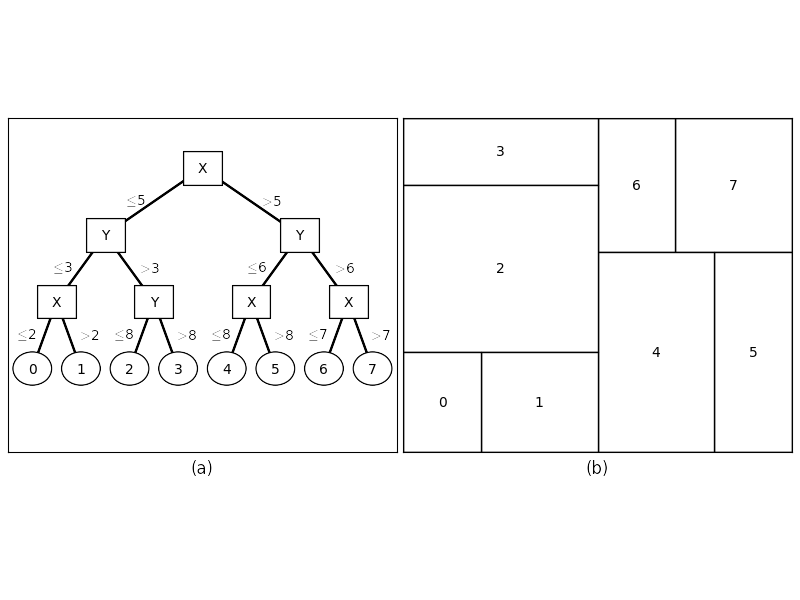
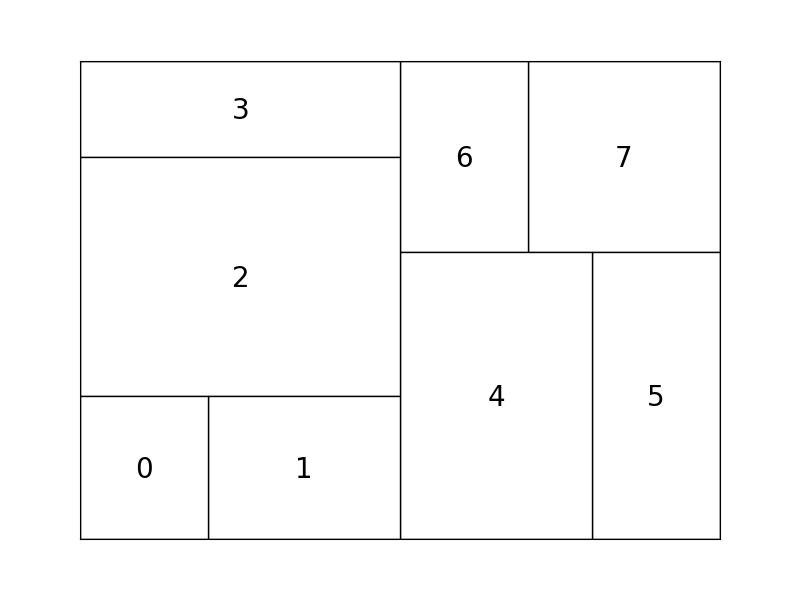
Script now makes individual images of the tree and inuced partitioning

diff --git a/src/examples/DecisionTreePartitions.py b/src/examples/DecisionTreePartitions.py
@@ -13,11 +13,13 @@ import linegraph
 import patchplotting
 
 
-def main(figureSaveLocation):
-    """Create an image that demonstrates the classifcation of data points using the k-NN algorithm.
+def main(treeSaveLocation, partitionSaveLocation):
+    """Create an image that demonstrates the partition induced by a decision tree.
 
-    @type figureSaveLocation - str
-    @use  figureSaveLocation - The location where the figure will be saved.
+    @type treeSaveLocation - str
+    @use  treeSaveLocation - The location where the image of the tree will be saved.
+    @type partitionSaveLocation - str
+    @use  partitionSaveLocation - The location where the image of the partitioning will be saved.
     """
 
     # Define the decision tree split points and partitions.
@@ -27,16 +29,6 @@ def main(figureSaveLocation):
     partitionLabels = [str(i) for i in range(len(splitValues) + 1)]
     splitValues = splitValues + ([None] * (len(splitValues) + 1))  # Pad out the splitValues with empty values for the leaves.
     splitVariables = splitVariables + ([None] * (len(splitValues) + 1))  # Pad out the splitVariables with empty values for the leaves.
-    ###COORDS FOR THE RECTANGLES HERE IDEALLY PROVIDE JUS THTE CENTRE COORD THEN CAN DO THE LINE FROM THERE TO CHILD NODE
-    # Determine if ellipses can be generated from just a central coord and the width and height
-    #       the central cord will be used to put the number of the partition the leaf node gives
-    # determine if rectanlge can be generated from central coord and width and height
-    #       the central coord will be used to put the name of the variable that is being split on
-    # get the central coord of the partitions (d this right after clculating them)
-    #       the central coord wll be used to put the label
-    #       the number of labels is the number of non-nulls in splitValues + 1
-    # get the central coord of the line that will connect the patches
-    #       this will b used to put the condition fo rhte branch (e.g. x <= 2)
 
     # Define the axis size;
     axisMinValue = 0.0
@@ -143,40 +135,35 @@ def main(figureSaveLocation):
                 partitionLabelXValues.append((otherVarLessThan + otherVarMoreThan) / 2.0)
                 partitionLabelYValues.append((currentVarLessThan + valueOfI) / 2.0)
 
-    # Create the figure, the grids for the subplots and determine the spacing for the subplots.
+    # Create the plot for the decision tree.
     currentFigure = plt.figure()
-    gs = gridspec.GridSpec(5, 6)
-    gs.update(left=0.01, right=0.99, bottom=0.05, top=1, wspace=0.05)#, hspace=0.05)
-
-    # Create the subplot for the decision tree.
-    leftScatterPlot = plt.subplot(gs[1:-1, 0:3])
-    leftScatterPlot.set_xlim(left=axisMinValue, right=axisMaxValue)
-    leftScatterPlot.set_ylim(bottom=axisMinValue, top=axisMaxValue)
+    gsTree = gridspec.GridSpec(10, 10)
+    gsTree.update(left=0, right=1, bottom=0, top=1, wspace=0.05)#, hspace=0.05)
+    treePlot = plt.subplot(gsTree[1:-1, 1:-1])
+    treePlot.set_xlim(left=axisMinValue, right=axisMaxValue)
+    treePlot.set_ylim(bottom=axisMinValue, top=axisMaxValue)
     nodes = [patches.Rectangle((nodeCenterXValues[i] - (nodeWidth / 2), nodeCenterYValues[i] - (nodeHeight / 2)), nodeWidth, nodeHeight) if nodeDepths[i] < maxDepth
              else patches.Circle((nodeCenterXValues[i], nodeCenterYValues[i]), nodeWidth / 2)
              for i in range(len(nodeDepths))]
     patchplotting.graphGeneration(nodes, currentFigure=currentFigure, faceColors=['white'] * len(nodes), zorders=[-1])
-    addtext.graphGeneration(nodeCenterXValues, nodeCenterYValues, nodeLabels, currentFigure=currentFigure, zorders=list(range(len(nodeLabels))))
+    addtext.graphGeneration(nodeCenterXValues, nodeCenterYValues, nodeLabels, currentFigure=currentFigure, sizes=[15] * len(nodeLabels), zorders=list(range(len(nodeLabels))))
     linegraph.graphGeneration(treeEdgesXValues, treeEdgesYValues, currentFigure=currentFigure, markerSizes=[0] * len(treeEdgesYValues), zorders=[-len(nodes)])
-    addtext.graphGeneration(edgeCenterXValues, edgeCenterYValues, treeEdgeLabels, currentFigure=currentFigure, zorders=list(range(len(treeEdgeLabels))))
+    addtext.graphGeneration(edgeCenterXValues, edgeCenterYValues, treeEdgeLabels, currentFigure=currentFigure, sizes=[15] * len(treeEdgeLabels), zorders=list(range(len(treeEdgeLabels))))
+    removeTickMarks(treePlot, xAxis=True, yAxis=True)
+    plt.savefig(treeSaveLocation, bbox_inches=0, transparent=True)
 
-    # Create the subplot for the feature space partition.
-    midScatterPlot = plt.subplot(gs[1:-1, 3:])
-    midScatterPlot.set_xlim(left=axisMinValue, right=axisMaxValue)
-    midScatterPlot.set_ylim(bottom=axisMinValue, top=axisMaxValue)
+    # Create the plot for the feature space partition.
+    currentFigure = plt.figure()
+    gsPartition = gridspec.GridSpec(10, 10)
+    gsPartition.update(left=0, right=1, bottom=0, top=1, wspace=0.05)#, hspace=0.05)
+    partitionPlot = plt.subplot(gsPartition[1:-1, 1:-1])
+    partitionPlot.set_xlim(left=axisMinValue, right=axisMaxValue)
+    partitionPlot.set_ylim(bottom=axisMinValue, top=axisMaxValue)
     rectangles = [patches.Rectangle((partitionXValues[i], partitionYValues[i]), partitionWidths[i], partitionHeights[i]) for i in range(len(partitionXValues))]
     patchplotting.graphGeneration(rectangles, currentFigure=currentFigure, faceColors=['white'] * len(rectangles), zorders=[-1])
-    addtext.graphGeneration(partitionLabelXValues, partitionLabelYValues, partitionLabels, currentFigure=currentFigure, zorders=list(range(len(partitionLabels))))
-
-    # Make all the tick marks invisible, and label the x axes.
-    labels = ['(b)', '(a)']
-    for ax in currentFigure.get_axes():
-        removeTickMarks(ax, xAxis=True, yAxis=True)
-        currentLabel = labels.pop()
-        setLabels(ax, xLabel=currentLabel)
-        ax.xaxis.set_label_coords(0.5, -0.025)
-
-    plt.savefig(figureSaveLocation, bbox_inches=0, transparent=True)
+    addtext.graphGeneration(partitionLabelXValues, partitionLabelYValues, partitionLabels, currentFigure=currentFigure, sizes=[20] * len(partitionLabels), zorders=list(range(len(partitionLabels))))
+    removeTickMarks(partitionPlot, xAxis=True, yAxis=True)
+    plt.savefig(partitionSaveLocation, bbox_inches=0, transparent=True)
     plt.show()
 
 def setLabels(axes, xLabel='', yLabel=''):
@@ -215,4 +202,4 @@ def removeTickLabels(axes, xAxis=False, yAxis=False):
 
 
 if __name__ == '__main__':
-    main(sys.argv[1])
+    main(sys.argv[1], sys.argv[2])
